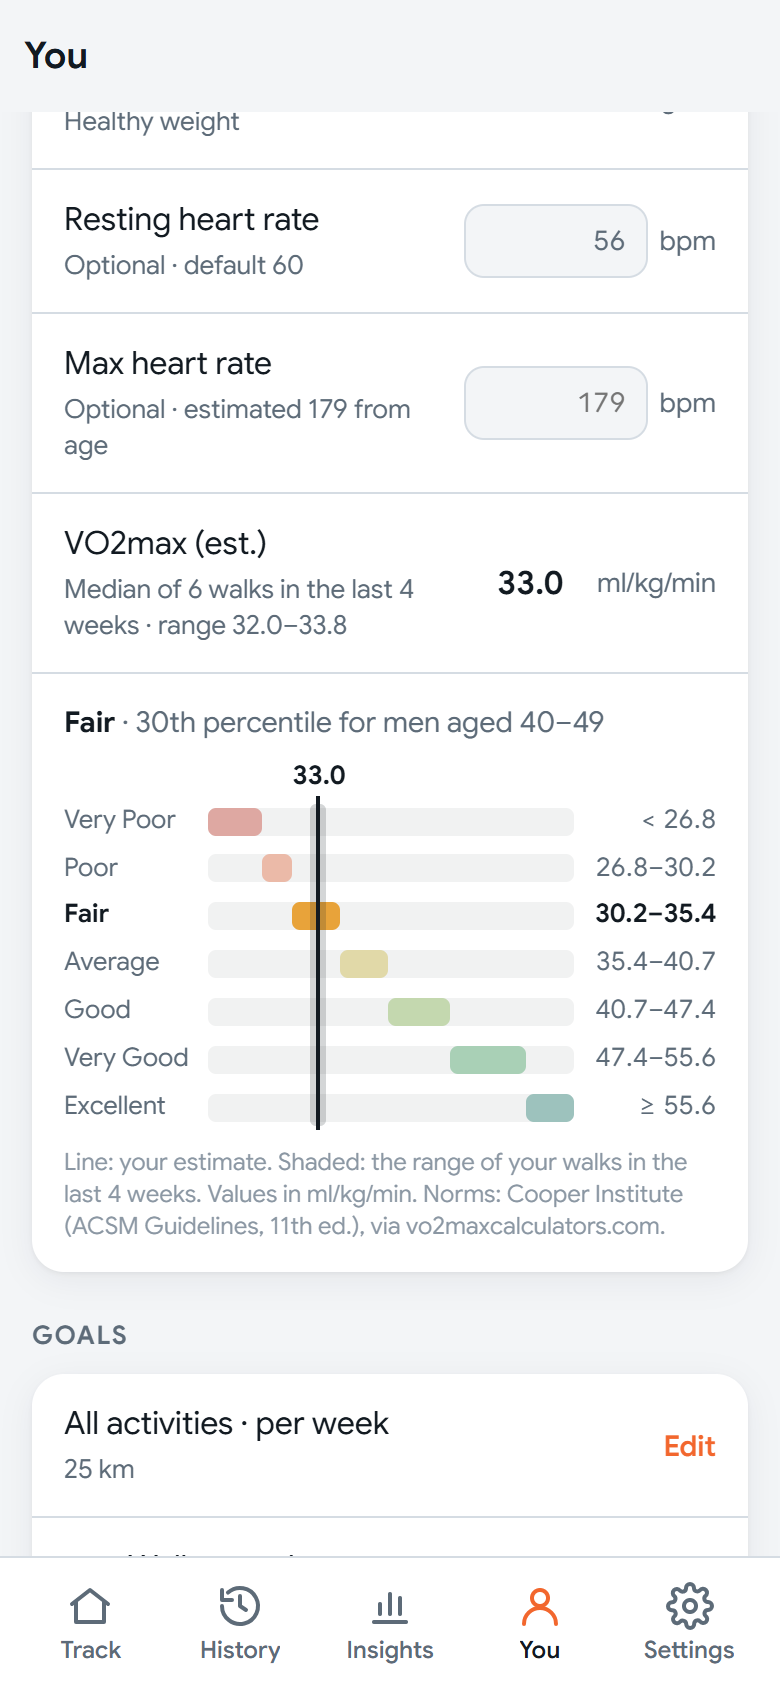
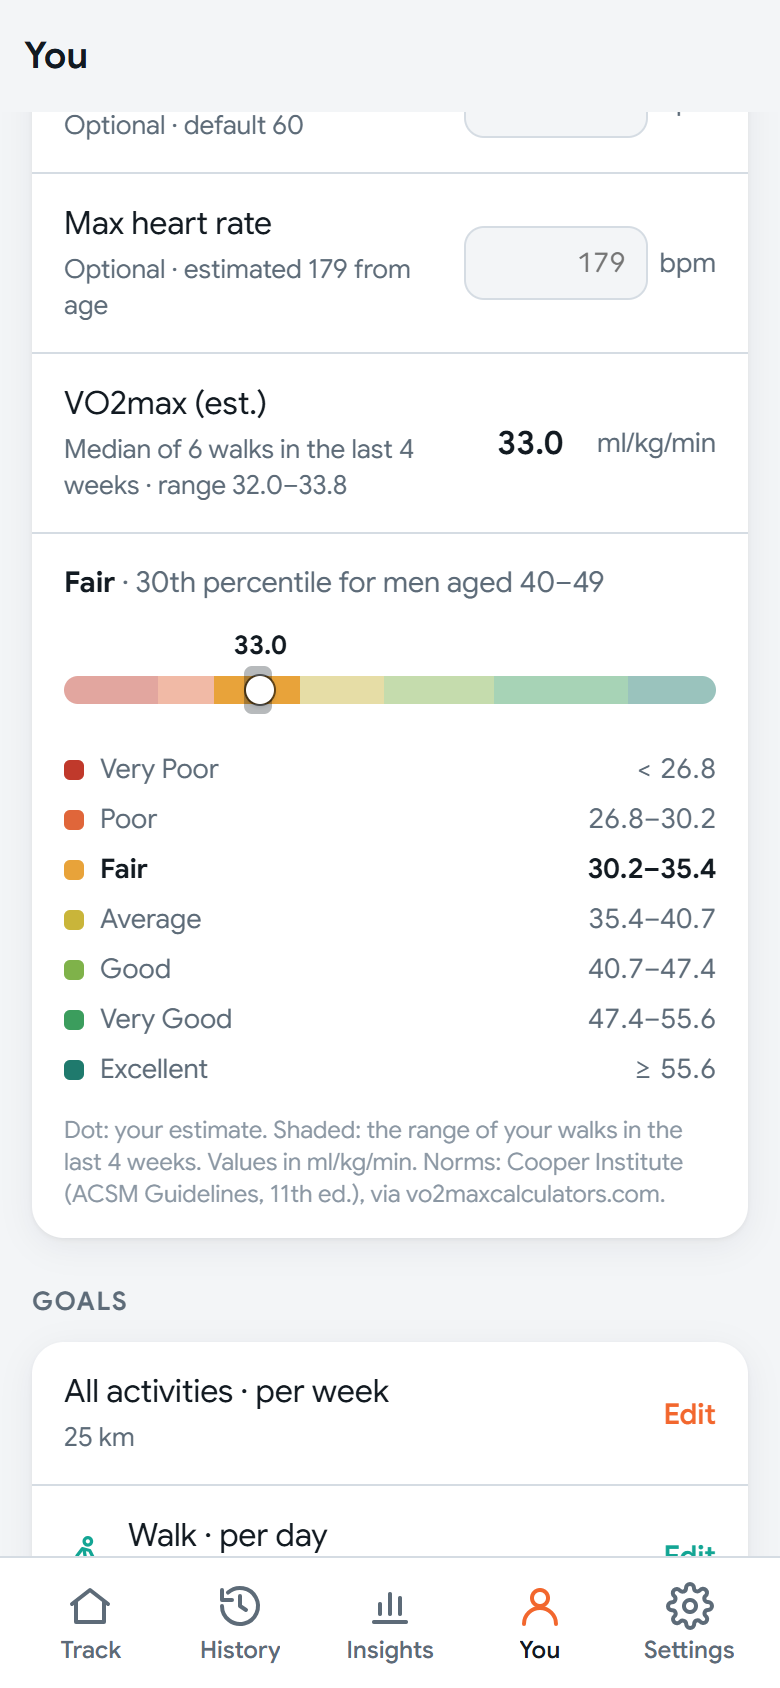
VO2max chart on one row: shaded 4-week range, white dot for the estimate, table of categories below

diff --git a/src/views/you.js b/src/views/you.js
@@ -37,9 +37,9 @@ function vo2HTML(value, hint) {
 }
 
 /**
- * Norms chart under the VO2max row: one horizontal bar per category on a shared ml/kg/min
- * scale, the estimate's category highlighted, the 4-week range shaded and the estimate
- * marked. `current` is from currentVo2max, or null for the norms alone.
+ * Norms chart under the VO2max row: the categories as one row of coloured segments on an
+ * ml/kg/min scale, the 4-week range shaded and the estimate as a white dot, then a table of
+ * the categories and their ranges. `current` is from currentVo2max, or null for the norms alone.
  */
 function vo2ChartHTML(profile, current) {
   const rating = rateVo2max(current?.value ?? null, profile.sex, ageAt(profile));
@@ -56,17 +56,17 @@ function vo2ChartHTML(profile, current) {
   }
   const x = (v) => `${(((v - lo) / (hi - lo)) * 100).toFixed(2)}%`;
   const fmt = (v) => v.toFixed(1);
-  const rows = ranges
+  const segments = ranges
     .map((r, i) => {
       const from = r.min ?? lo;
       const to = r.max ?? hi;
+      return `<i class="vo2-seg c${i}${i === rating.category ? ' current' : ''}" style="left:${x(from)};width:calc(${x(to)} - ${x(from)})"></i>`;
+    })
+    .join('');
+  const rows = ranges
+    .map((r, i) => {
       const text = r.min == null ? `< ${fmt(r.max)}` : r.max == null ? `≥ ${fmt(r.min)}` : `${fmt(r.min)}–${fmt(r.max)}`;
-      const cur = i === rating.category ? ' current' : '';
-      // Cells are placed explicitly so the overlay can share the bars column.
-      const row = `grid-row:${i + 1}`;
-      return `<span class="vo2-label${cur}" style="${row}">${r.label}</span>
-        <span class="vo2-track" style="${row}"><i class="vo2-bar c${i}${cur}" style="left:${x(from)};width:calc(${x(to)} - ${x(from)})"></i></span>
-        <span class="vo2-range num${cur}" style="${row}">${text}</span>`;
+      return `<tr${i === rating.category ? ' class="current"' : ''}><th scope="row"><i class="vo2-swatch c${i}"></i>${r.label}</th><td class="num">${text}</td></tr>`;
     })
     .join('');
   const who = `${profile.sex === 'female' ? 'women' : 'men'} aged ${rating.band}${rating.clamped ? ' (nearest age group)' : ''}`;
@@ -75,19 +75,18 @@ function vo2ChartHTML(profile, current) {
     const pct = rating.below ? 'below the 5th percentile' : rating.above ? 'above the 95th percentile' : `${ordinal(rating.percentile)} percentile`;
     head = `<strong>${VO2_CATEGORIES[rating.category].label}</strong> · ${pct} for ${who}`;
   }
-  const overlay = current
-    ? `<span class="vo2-overlay" aria-hidden="true">
-        ${current.count > 1 ? `<i class="vo2-span" style="left:${x(current.min)};width:calc(${x(current.max)} - ${x(current.min)})"></i>` : ''}
-        <i class="vo2-mark" style="left:${x(current.value)}"><b class="num">${fmt(current.value)}</b></i>
-      </span>`
+  const marks = current
+    ? `${current.count > 1 ? `<i class="vo2-span" style="left:${x(current.min)};width:calc(${x(current.max)} - ${x(current.min)})"></i>` : ''}
+        <i class="vo2-mark" style="left:${x(current.value)}"><b class="num">${fmt(current.value)}</b></i>`
     : '';
   const note = current
-    ? `Line: your estimate${current.count > 1 ? '. Shaded: the range of your walks in the last 4 weeks' : ''}. `
+    ? `Dot: your estimate${current.count > 1 ? '. Shaded: the range of your walks in the last 4 weeks' : ''}. `
     : '';
   return `<div class="vo2-head">${head}</div>
     <div class="vo2-chart${current ? ' has-mark' : ''}" role="img" aria-label="VO2max categories for ${who}${current ? `; your estimate ${fmt(current.value)} is ${VO2_CATEGORIES[rating.category].label}` : ''}">
-      ${rows}${overlay}
+      <span class="vo2-scale">${segments}</span>${marks}
     </div>
+    <table class="vo2-table"><caption class="visually-hidden">VO2max categories for ${who}, ml/kg/min</caption><tbody>${rows}</tbody></table>
     <small class="vo2-note">${note}Values in ml/kg/min. Norms: Cooper Institute (ACSM Guidelines, 11th ed.), via vo2maxcalculators.com.</small>`;
 }
 

diff --git a/src/styles/app.css b/src/styles/app.css
@@ -2080,7 +2080,7 @@ main#view {
   width: 100%;
 }
 
-/* VO2max norms chart (You → Profile): one bar per category on a shared scale. */
+/* VO2max norms chart (You → Profile): the categories in one row on a shared scale, then a table. */
 .vo2-chart-row[hidden] {
   display: none;
 }
@@ -2100,92 +2100,66 @@ main#view {
 
 .vo2-chart {
   position: relative;
-  display: grid;
-  grid-template-columns: auto minmax(0, 1fr) auto;
-  align-items: center;
-  column-gap: 10px;
-  row-gap: 6px;
-  font-size: 0.8rem;
-  color: var(--text-dim);
+  height: 14px;
+  margin: 2px 0 4px;
 }
 
 .vo2-chart.has-mark {
-  padding-top: 20px;
+  margin: 26px 0 10px;
 }
 
-.vo2-label.current,
-.vo2-range.current {
-  color: var(--text);
-  font-weight: 650;
+.vo2-scale {
+  position: absolute;
+  inset: 0;
+  border-radius: 7px;
+  overflow: hidden;
 }
 
-.vo2-label {
-  grid-column: 1;
-}
-
-.vo2-range {
-  grid-column: 3;
-  text-align: right;
-}
-
-.vo2-track {
-  grid-column: 2;
-  position: relative;
-  height: 14px;
-  border-radius: 4px;
-  background: color-mix(in srgb, var(--text) 6%, transparent);
-}
-
-.vo2-bar {
+.vo2-seg {
   position: absolute;
   top: 0;
   bottom: 0;
-  border-radius: 4px;
-  opacity: 0.4;
+  opacity: 0.45;
 }
 
-.vo2-bar.current {
+.vo2-seg.current {
   opacity: 1;
 }
 
-.vo2-bar.c0 { background: #c0392b; }
-.vo2-bar.c1 { background: #e0663a; }
-.vo2-bar.c2 { background: #e8a33a; }
-.vo2-bar.c3 { background: #c9b53a; }
-.vo2-bar.c4 { background: #7fb24a; }
-.vo2-bar.c5 { background: #3b9d5d; }
-.vo2-bar.c6 { background: #1f7a6d; }
+.c0:is(.vo2-seg, .vo2-swatch) { background: #c0392b; }
+.c1:is(.vo2-seg, .vo2-swatch) { background: #e0663a; }
+.c2:is(.vo2-seg, .vo2-swatch) { background: #e8a33a; }
+.c3:is(.vo2-seg, .vo2-swatch) { background: #c9b53a; }
+.c4:is(.vo2-seg, .vo2-swatch) { background: #7fb24a; }
+.c5:is(.vo2-seg, .vo2-swatch) { background: #3b9d5d; }
+.c6:is(.vo2-seg, .vo2-swatch) { background: #1f7a6d; }
 
-/* Over the bars column, all rows: the 4-week range and the estimate. */
-.vo2-overlay {
-  grid-column: 2;
-  grid-row: 1 / span 7;
-  position: relative;
-  align-self: stretch;
-  margin-top: -20px;
-  pointer-events: none;
-}
-
+/* The 4-week range: a shaded band taller than the scale, so it shows above and below the dot
+   even when the range is narrower than the dot. */
 .vo2-span {
   position: absolute;
-  top: 20px;
-  bottom: 0;
-  background: color-mix(in srgb, var(--text) 18%, transparent);
-  border-radius: 3px;
+  top: -5px;
+  bottom: -5px;
+  min-width: 4px;
+  border-radius: 4px;
+  background: color-mix(in srgb, var(--text) 30%, transparent);
 }
 
+/* The estimate: a white dot with a fine dark outline, its value above. */
 .vo2-mark {
   position: absolute;
-  top: 16px;
-  bottom: -2px;
-  width: 2px;
-  margin-left: -1px;
-  background: var(--text);
+  top: 50%;
+  width: 14px;
+  height: 14px;
+  margin: -7px 0 0 -7px;
+  border-radius: 50%;
+  background: #fff;
+  box-shadow: 0 0 0 1px rgb(0 0 0 / 0.55), 0 1px 3px rgb(0 0 0 / 0.25);
 }
 
 .vo2-mark b {
   position: absolute;
-  top: -18px;
+  bottom: 19px;
   left: 50%;
   transform: translateX(-50%);
   font-size: 0.8rem;
@@ -2193,6 +2167,38 @@ main#view {
   font-weight: 700;
   color: var(--text);
   white-space: nowrap;
+}
+
+.vo2-table {
+  width: 100%;
+  border-collapse: collapse;
+  font-size: 0.85rem;
+  color: var(--text-dim);
+}
+
+.vo2-table th,
+.vo2-table td {
+  padding: 3px 0;
+  font-weight: inherit;
+  text-align: left;
+}
+
+.vo2-table td {
+  text-align: right;
+}
+
+.vo2-table tr.current {
+  color: var(--text);
+  font-weight: 650;
+}
+
+.vo2-swatch {
+  display: inline-block;
+  width: 10px;
+  height: 10px;
+  margin-right: 8px;
+  border-radius: 3px;
+  vertical-align: -1px;
 }
 
 .vo2-note {

diff --git a/README.md b/README.md
@@ -66,7 +66,7 @@ sensors.
   <img src="docs/screenshots/insights-goals.png" width="250" alt="Insights: weekly running distance with a dashed 25 km goal line, and a tooltip for a week 7.4 km short of the goal">
 </p>
 <p align="center">
-  <img src="docs/screenshots/profile.png" width="250" alt="You, Profile: resting and max heart rate, the estimated VO2max (the median of 6 walks in the last 4 weeks) and a chart rating it from Very Poor to Excellent for men aged 40–49, with the estimate marked in Fair at the 30th percentile">
+  <img src="docs/screenshots/profile.png" width="250" alt="You, Profile: resting and max heart rate, the estimated VO2max (the median of 6 walks in the last 4 weeks) and a one-row chart rating it from Very Poor to Excellent for men aged 40–49, with the estimate as a white dot in Fair at the 30th percentile, and a table of the categories and their ranges below">
 </p>
 <p align="center">
   <img src="docs/screenshots/widget-week-chart.png" width="490" alt="4×2 widget: this week's distance, average split and speed, a chart of distance per day with a dashed daily goal line, and You're 3 km ahead of your goal! Well done!!">
